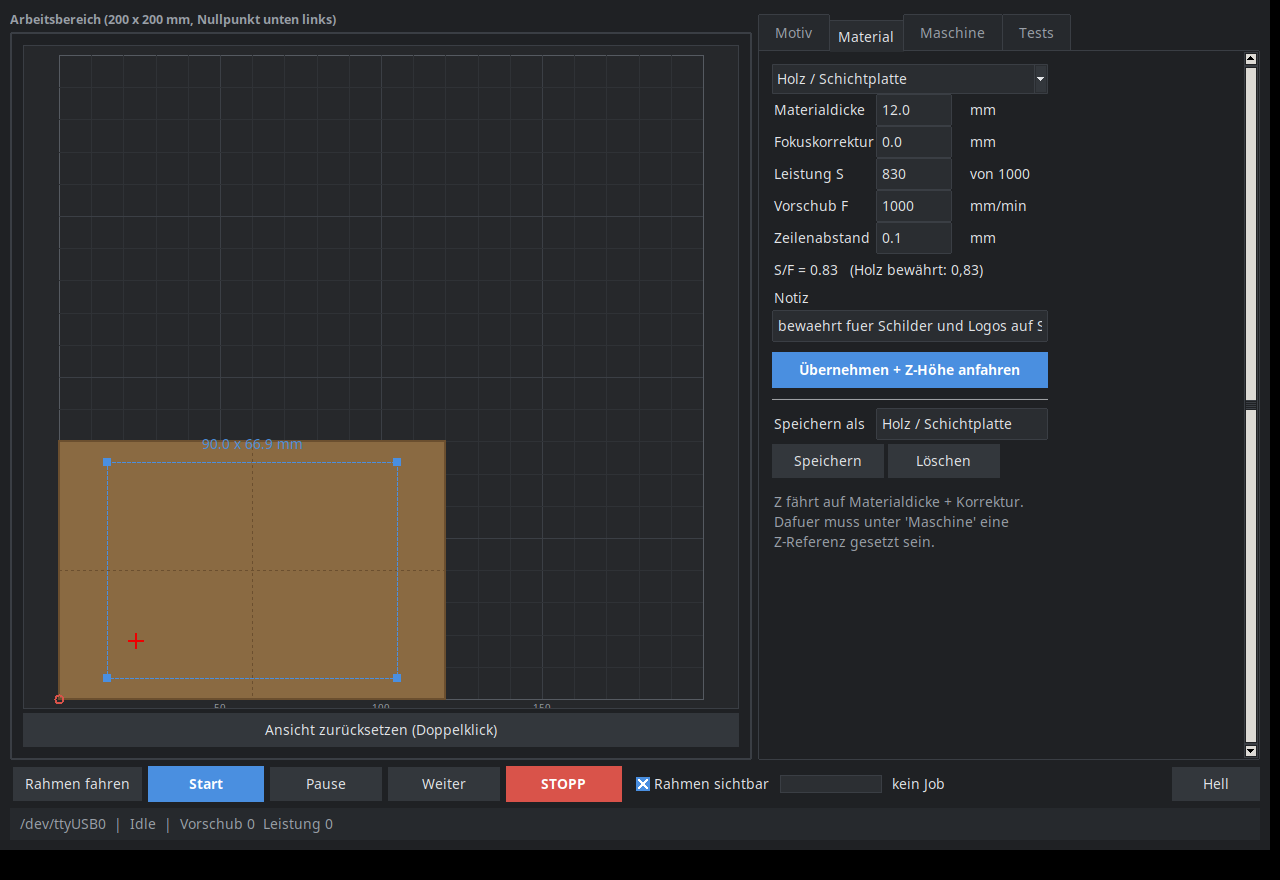
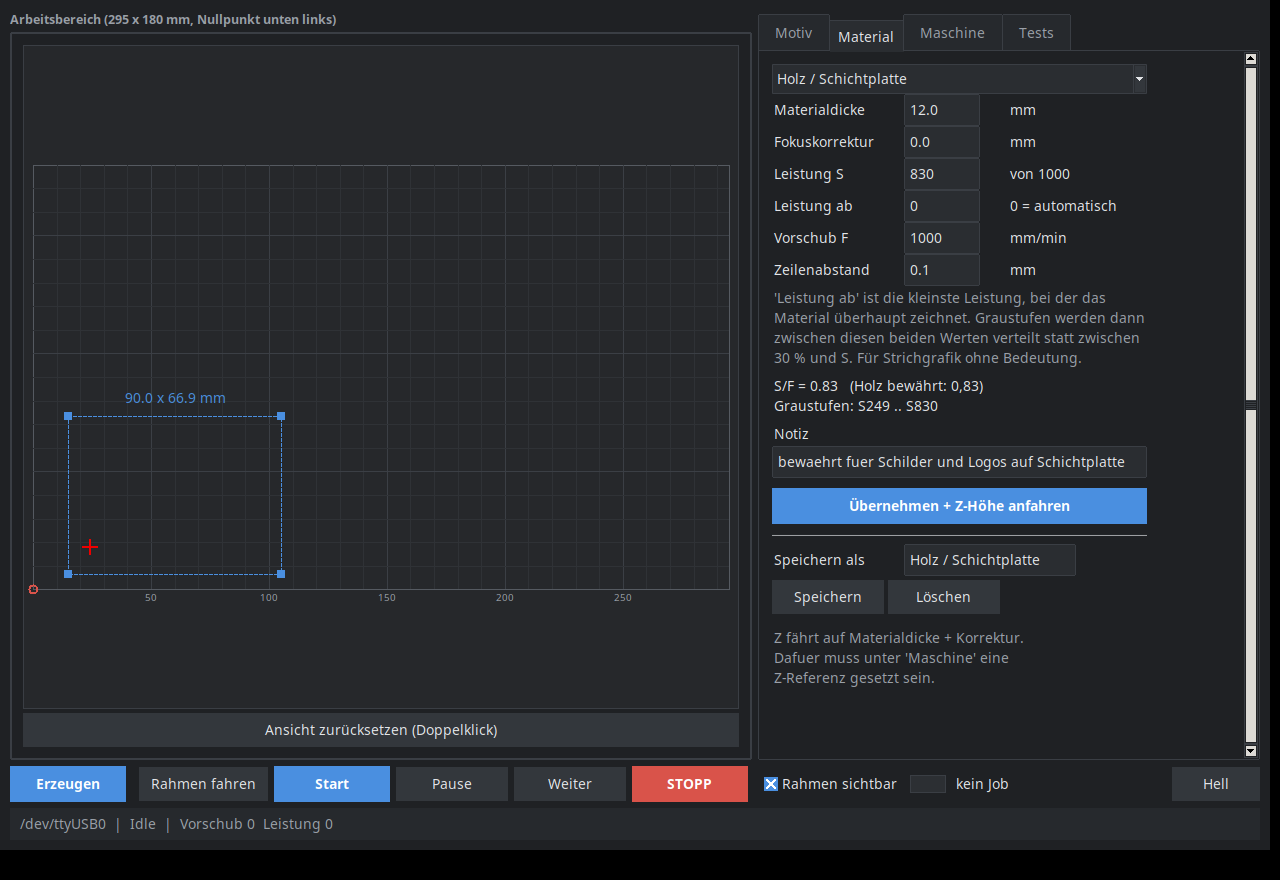
Erzeugen-Knopf in die Jobleiste, Hinweis auf G91
Der Knopf lag nur unten im Reiter Motiv - wer im Reiter Material einen Wert
aendert, musste zurueckwechseln. Jetzt steht er in der immer sichtbaren
Jobleiste und ist hervorgehoben, solange kein gueltiger G-Code vorliegt.

Dafuer Platz gemacht: Fortschrittsbalken kuerzer und mit sticky, damit er
in einem breiteren Fenster mitwaechst statt auf einen Pixel zu schrumpfen.

Beim Laden fremder Dateien wird jetzt auch vor G91 gewarnt - nur dann
haengt das Ergebnis davon ab, wo der Kopf beim Start steht.

diff --git a/laserwerk.py b/laserwerk.py
@@ -5,7 +5,7 @@ Laserwerk - Oberflaeche fuer GRBL-Diodenlaser.
 Bild oder SVG laden, skalieren, Material waehlen, Achsen steuern,
 Nullpunkt setzen, Fokus testen, gravieren.
 """
-import base64, io, math, os, queue, threading, time
+import base64, io, math, os, queue, re, threading, time
 from PIL import Image
 import tkinter as tk
 from tkinter import ttk
@@ -131,22 +131,24 @@ class App:
         # Jobleiste
         jb = ttk.Frame(main, padding=(0, 6, 0, 0))
         jb.grid(row=1, column=0, columnspan=2, sticky="ew")
+        self.btn_gen = ttk.Button(jb, text=T("Erzeugen"), command=self.generate)
+        self.btn_gen.grid(row=0, column=0, padx=(0, 10))
         for i, (t, f, st) in enumerate([("Rahmen fahren", self.frame, "TButton"),
                                         ("Start", self.start, "Accent.TButton"),
                                         ("Pause", self.pause, "TButton"),
                                         ("Weiter", self.resume, "TButton"),
                                         ("STOPP", self.stop, "Danger.TButton")]):
-            ttk.Button(jb, text=T(t), command=f, style=st).grid(row=0, column=i, padx=3)
+            ttk.Button(jb, text=T(t), command=f, style=st).grid(row=0, column=i + 1, padx=3)
         ttk.Checkbutton(jb, text=T("Rahmen sichtbar"), variable=self.v_frame_laser
-                        ).grid(row=0, column=5, padx=(8, 0))
-        self.prog = ttk.Progressbar(jb, length=300, maximum=1000)
-        self.prog.grid(row=0, column=6, padx=8)
-        self.lbl_prog = ttk.Label(jb, text=T("kein Job"), width=34)
-        self.lbl_prog.grid(row=0, column=7)
+                        ).grid(row=0, column=6, padx=(10, 2))
+        self.prog = ttk.Progressbar(jb, length=170, maximum=1000)
+        self.prog.grid(row=0, column=7, padx=8, sticky="ew")
+        self.lbl_prog = ttk.Label(jb, text=T("kein Job"), width=26, anchor="w")
+        self.lbl_prog.grid(row=0, column=8)
         self.btn_theme = ttk.Button(jb, command=self.toggle_theme, width=8)
-        self.btn_theme.grid(row=0, column=8, padx=(6, 0))
+        self.btn_theme.grid(row=0, column=9, padx=(6, 0))
         self._theme_label()
-        jb.columnconfigure(6, weight=1)
+        jb.columnconfigure(7, weight=1)
 
         if TG.lade().get("auto") and self.v_tg_token.get().strip():
             self.root.after(800, self.fern_start)
@@ -626,6 +628,7 @@ class App:
         self.lbl_src.configure(text=T('{0}\n{1} x {2} px').format(
             anzeige or os.path.basename(p), im.width, im.height))
         self.fit()
+        self._gen_knopf()
         return True
 
     # --------------------------------------------------------- Projekt
@@ -722,6 +725,7 @@ class App:
         self.drag = None
         self.lbl_src.configure(text="-")
         self.lbl_info.configure(text="")
+        self._gen_knopf()
         self._draw()
 
     def _vec_bbox(self):
@@ -823,12 +827,20 @@ class App:
             return
         self._keep_ratio("w")
 
+    def _gen_knopf(self):
+        """Hervorheben, solange kein gueltiger G-Code vorliegt."""
+        if not hasattr(self, "btn_gen"):
+            return
+        fehlt = self.src is not None and self.lines is None
+        self.btn_gen.configure(style="Accent.TButton" if fehlt else "TButton")
+
     def _stale(self):
         """Größe/Drehung geändert: erzeugter G-Code passt nicht mehr."""
         if self.src is not None and self.lines is not None:
             self.lines = self.info = self.preview_img = self.cut_polys = None
             self.preview_pil = self._prev_cache = None
             self.lbl_info.configure(text=T("Einstellung geändert -\nVorschau neu erzeugen."))
+        self._gen_knopf()
 
     def fit(self):
         if self.src is None:
@@ -898,6 +910,7 @@ class App:
         self.preview_pil = J.preview_image(p)
         self.preview_img = None
         self.preview_pos = (xoff, yoff + self.info["hoehe"])
+        self._gen_knopf()
         i = self.info
         warn = ""
         if i["xmax"] > self.cfg["x_max"] or h > self.cfg["y_max"]:
@@ -940,6 +953,7 @@ class App:
                                             kommentar=os.path.basename(self.src_path))
         self.cut_polys = polys
         self.preview_img = None
+        self._gen_knopf()
         i = self.info
         warn = T("\nACHTUNG: größer als der Verfahrweg!") if (
             i["xmax"] > self.cfg["x_max"] or i["hoehe"] > self.cfg["y_max"]) else ""
@@ -986,7 +1000,11 @@ class App:
         self.preview_img = None
         self.preview_pos = (x0, y1)          # linke obere Ecke in mm
         self.src_path = p
+        self._gen_knopf()
         m3 = any(l.upper().startswith("M3") for l in self.lines)
+        # G91 = relative Fahrten. Dann haengt alles davon ab, wo der Kopf
+        # beim Start steht - bei unseren eigenen Dateien nie der Fall.
+        rel = any(re.match(r"\s*G0*91\b", l.upper()) for l in self.lines)
         neg = x0 < -0.01 or y0 < -0.01
         self.lbl_info.configure(text=(
             T("{datei}\n"
@@ -999,7 +1017,9 @@ class App:
             + (T("\nHinweis: nutzt M3 - bei Pause brennt der\nLaser weiter!")
                if m3 else "")
             + (T("\nHinweis: negative Koordinaten - Nullpunkt\n"
-                 "liegt nicht links unten!") if neg else "")))
+                 "liegt nicht links unten!") if neg else "")
+            + (T("\nHinweis: nutzt G91 - die Datei fährt relativ!\n"
+                 "Erst auf den Startpunkt fahren.") if rel else "")))
         self._draw()
 
     # ================================================================ Material

diff --git a/lw_text.py b/lw_text.py
@@ -663,4 +663,7 @@ EN = {
     "am gemerkten Ort.":
         "The artwork '{name}' is not inside the file and is no longer at the "
         "remembered place.",
+    "Erzeugen": "Build",
+    "\nHinweis: nutzt G91 - die Datei fährt relativ!\nErst auf den Startpunkt fahren.":
+        "\nNote: uses G91 - the file moves relatively!\nMove to the start point first.",
 }
